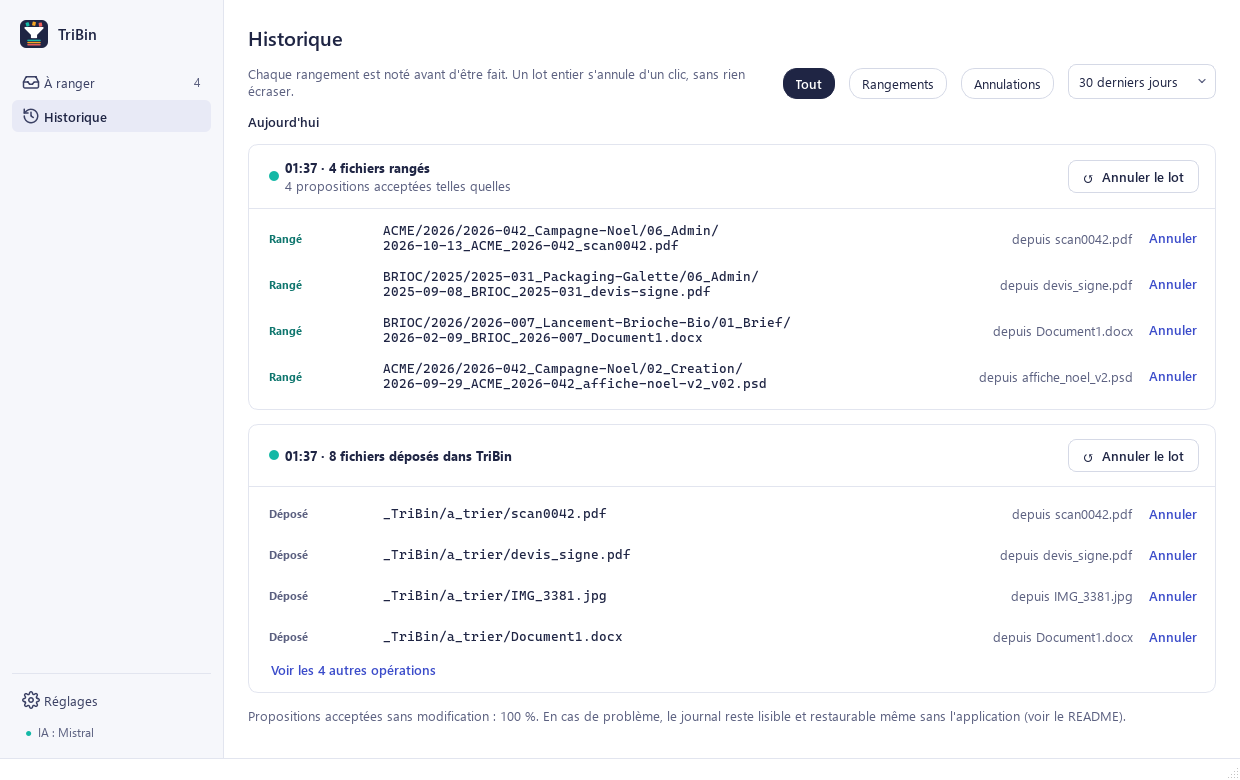
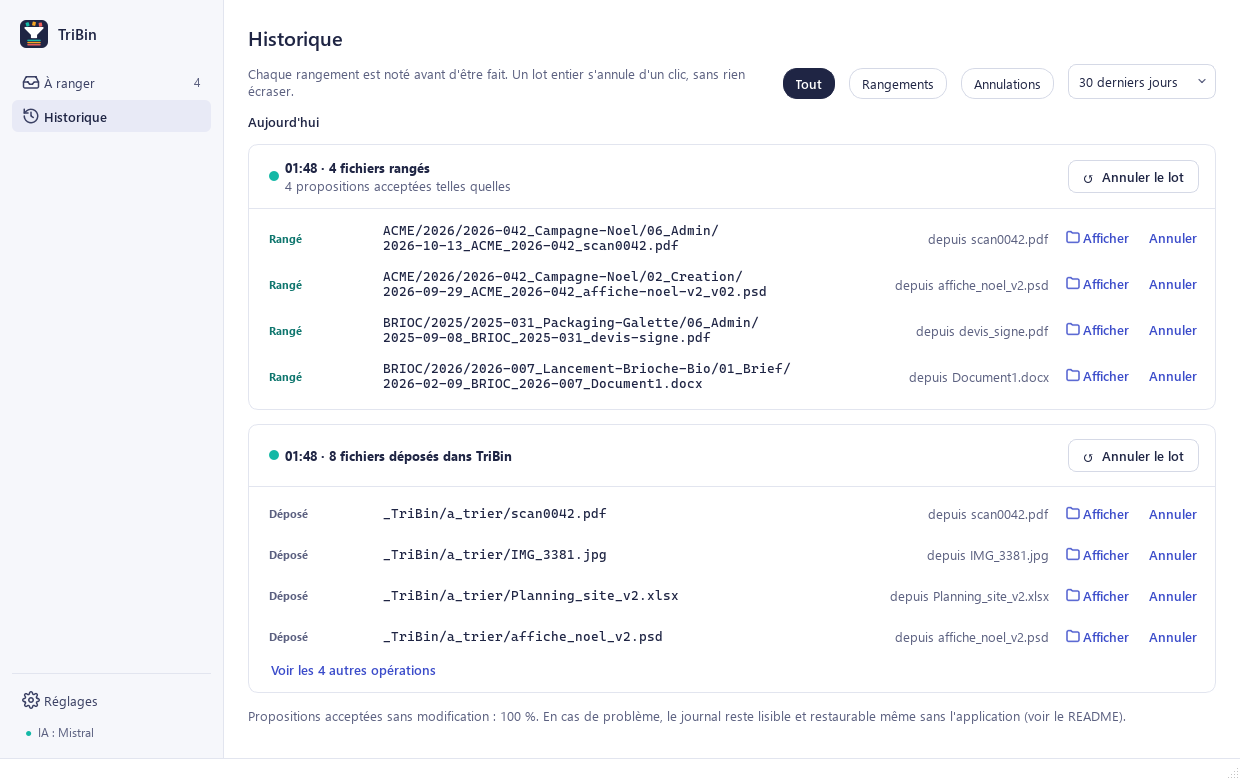
Historique : bouton « Afficher » qui ouvre l'Explorateur sur le fichier
Chaque opération de l'Historique a un bouton « Afficher » : l'Explorateur
(Windows) ou le Finder (macOS) s'ouvre avec le fichier sélectionné, là où
il est maintenant (à destination, ou revenu à son emplacement d'origine
après une annulation) ; à défaut, son dossier. Désactivé si plus rien
n'existe. Le bouton du détail devient « Afficher dans l'Explorateur » et
sélectionne lui aussi le fichier.

diff --git a/src/tribin/ui/history.py b/src/tribin/ui/history.py
@@ -23,6 +23,8 @@ from PySide6.QtWidgets import (
 from tribin.config import STAGING_DIRNAME
 from tribin.safety.journal import Journal
 from tribin.ui.components import elided, section
+from tribin.ui.icons import line_icon
+from tribin.ui.system_integration import FILE_MANAGER, reveal, reveal_target
 from tribin.ui.theme import BORDER, CORAL, FAINT, TEAL, mono_font
 
 if TYPE_CHECKING:
@@ -315,6 +317,7 @@ class HistoryView(QWidget):
             note.setText(elided(hint, note, 230))
             note.setToolTip(hint)
             line.addWidget(note)
+        line.addWidget(self._reveal_button(op))
         if op.get("status") == "done" and op.get("action") in REVERSIBLE:
             undo = QPushButton("Annuler")
             undo.setObjectName("Link")
@@ -322,6 +325,24 @@ class HistoryView(QWidget):
             undo.clicked.connect(lambda _=False, o=op["operation_id"]: self._undo(operation_id=o))
             line.addWidget(undo)
         return row
+
+    @staticmethod
+    def _reveal_button(op: dict) -> QPushButton:
+        """« Afficher » : ouvre l'Explorateur sur le fichier (là où il est maintenant : à destination, ou revenu à
+        son emplacement d'origine après une annulation)."""
+        undone = op.get("status") == "undone"
+        first, second = (op.get("source"), op.get("destination")) if undone else (op.get("destination"), op.get("source"))
+        target = reveal_target(first, second)
+        button = QPushButton("Afficher")
+        button.setObjectName("Link")
+        button.setIcon(line_icon("folder", "#3B4CCA", 14))
+        if target is None:
+            button.setEnabled(False)
+            button.setToolTip("Le fichier n'est plus à cet emplacement.")
+        else:
+            button.setToolTip(f"Afficher dans {FILE_MANAGER} : {target}")
+            button.clicked.connect(lambda _=False, t=target: reveal(t))
+        return button
 
     # --- annulation ---------------------------------------------------------------------------
 

diff --git a/tests/test_ui.py b/tests/test_ui.py
@@ -476,3 +476,33 @@ def test_personal_mode_in_onboarding_and_settings(qapp, controller, monkeypatch)
     dialog.mode_cards["work"].radio.setChecked(True)
     dialog._save()
     assert not controller.service.convention().personal
+
+
+def test_history_reveal_button(qapp, controller, monkeypatch):
+    import tribin.ui.history as history_module
+
+    shown = []
+    monkeypatch.setattr(history_module, "reveal", lambda path: shown.append(Path(path)))
+    controller.drop_paths([controller.sb / "inbox" / "scan0042.pdf"])
+    assert wait(qapp, lambda: ready_items(controller, 1))
+    controller.refresh_queue()
+    controller.bin_window.validate_selected()
+    placed = controller.sb / "root" / NOEL / "06_Admin" / "2026-10-12_ACME_2026-042_Devis-impression.pdf"
+    assert wait(qapp, placed.exists)
+    history = controller.bin_window.history
+    controller.bin_window.show_page("history")
+    buttons = [b for b in history.findChildren(QPushButton) if b.text() == "Afficher" and b.isEnabled()]
+    assert buttons
+    for button in buttons:
+        button.click()
+    assert placed in shown  # le fichier rangé, sélectionné dans l'Explorateur
+
+    monkeypatch.setattr(QMessageBox, "question", lambda *a, **k: QMessageBox.StandardButton.Yes)
+    next(b for b in history.findChildren(QPushButton) if "Annuler le lot" in b.text()).click()
+    shown.clear()
+    qapp.processEvents()  # anciens boutons (avant l'annulation) détruits
+    for button in [b for b in history.findChildren(QPushButton)
+                   if b.text() == "Afficher" and b.isEnabled() and b.isVisibleTo(history)]:
+        button.click()
+    assert placed not in shown and any(p.name == "2026-10-12_ACME_2026-042_Devis-impression.pdf" or
+                                       p.name == "scan0042.pdf" for p in shown)  # là où il est revenu

diff --git a/src/tribin/ui/system_integration.py b/src/tribin/ui/system_integration.py
@@ -53,3 +53,34 @@ def install_desktop_shortcut() -> Path:
         return link
     _create_shortcut(link, *app_command())
     return link
+
+
+# --- afficher un fichier dans l'Explorateur / le Finder -------------------------------------------
+
+FILE_MANAGER = "le Finder" if sys.platform == "darwin" else "l'Explorateur"
+
+
+def reveal_target(*candidates: str | Path | None) -> Path | None:
+    """Premier chemin existant parmi `candidates` ; à défaut, le premier dossier parent qui existe."""
+    paths = [Path(c) for c in candidates if c]
+    for path in paths:
+        if path.exists():
+            return path
+    for path in paths:
+        if path.parent.exists():
+            return path.parent
+    return None
+
+
+def reveal(path: Path) -> None:
+    """Ouvre l'Explorateur (Windows) ou le Finder (macOS) avec le fichier sélectionné ; un dossier est ouvert."""
+    path = Path(path)
+    if path.is_file() and sys.platform == "win32":
+        subprocess.Popen(f'explorer /select,"{path}"')  # chaîne : explorer exige « /select,"chemin" » tel quel
+    elif path.is_file() and sys.platform == "darwin":
+        subprocess.Popen(["open", "-R", str(path)])
+    else:
+        from PySide6.QtCore import QUrl
+        from PySide6.QtGui import QDesktopServices
+
+        QDesktopServices.openUrl(QUrl.fromLocalFile(str(path if path.is_dir() else path.parent)))

diff --git a/src/tribin/ui/bin_detail.py b/src/tribin/ui/bin_detail.py
@@ -36,6 +36,7 @@ from tribin.ui.components import (
     thumbnail,
 )
 from tribin.ui.icons import line_icon
+from tribin.ui.system_integration import FILE_MANAGER, reveal, reveal_target
 from tribin.ui.theme import mono_font
 
 HESITATION = "L'IA hésite avec"
@@ -112,7 +113,7 @@ class DetailPanel(QFrame):
         self.reanalyze_button.clicked.connect(self.reanalyze_clicked)
         self.open_button = QPushButton("Ouvrir")
         self.open_button.clicked.connect(self._open_file)
-        self.reveal_button = QPushButton("Afficher dans le dossier")
+        self.reveal_button = QPushButton(f"Afficher dans {FILE_MANAGER}")
         self.reveal_button.clicked.connect(self._reveal_file)
         for button, icon in ((self.reanalyze_button, "sparkle"), (self.open_button, "open"),
                              (self.reveal_button, "folder")):
@@ -299,7 +300,9 @@ class DetailPanel(QFrame):
 
     def _reveal_file(self) -> None:
         if self.item:
-            QDesktopServices.openUrl(QUrl.fromLocalFile(str(Path(self.item.staged_path).parent)))
+            target = reveal_target(self.item.staged_path)
+            if target:
+                reveal(target)
 
     # --- affichage ----------------------------------------------------------------------------
 
